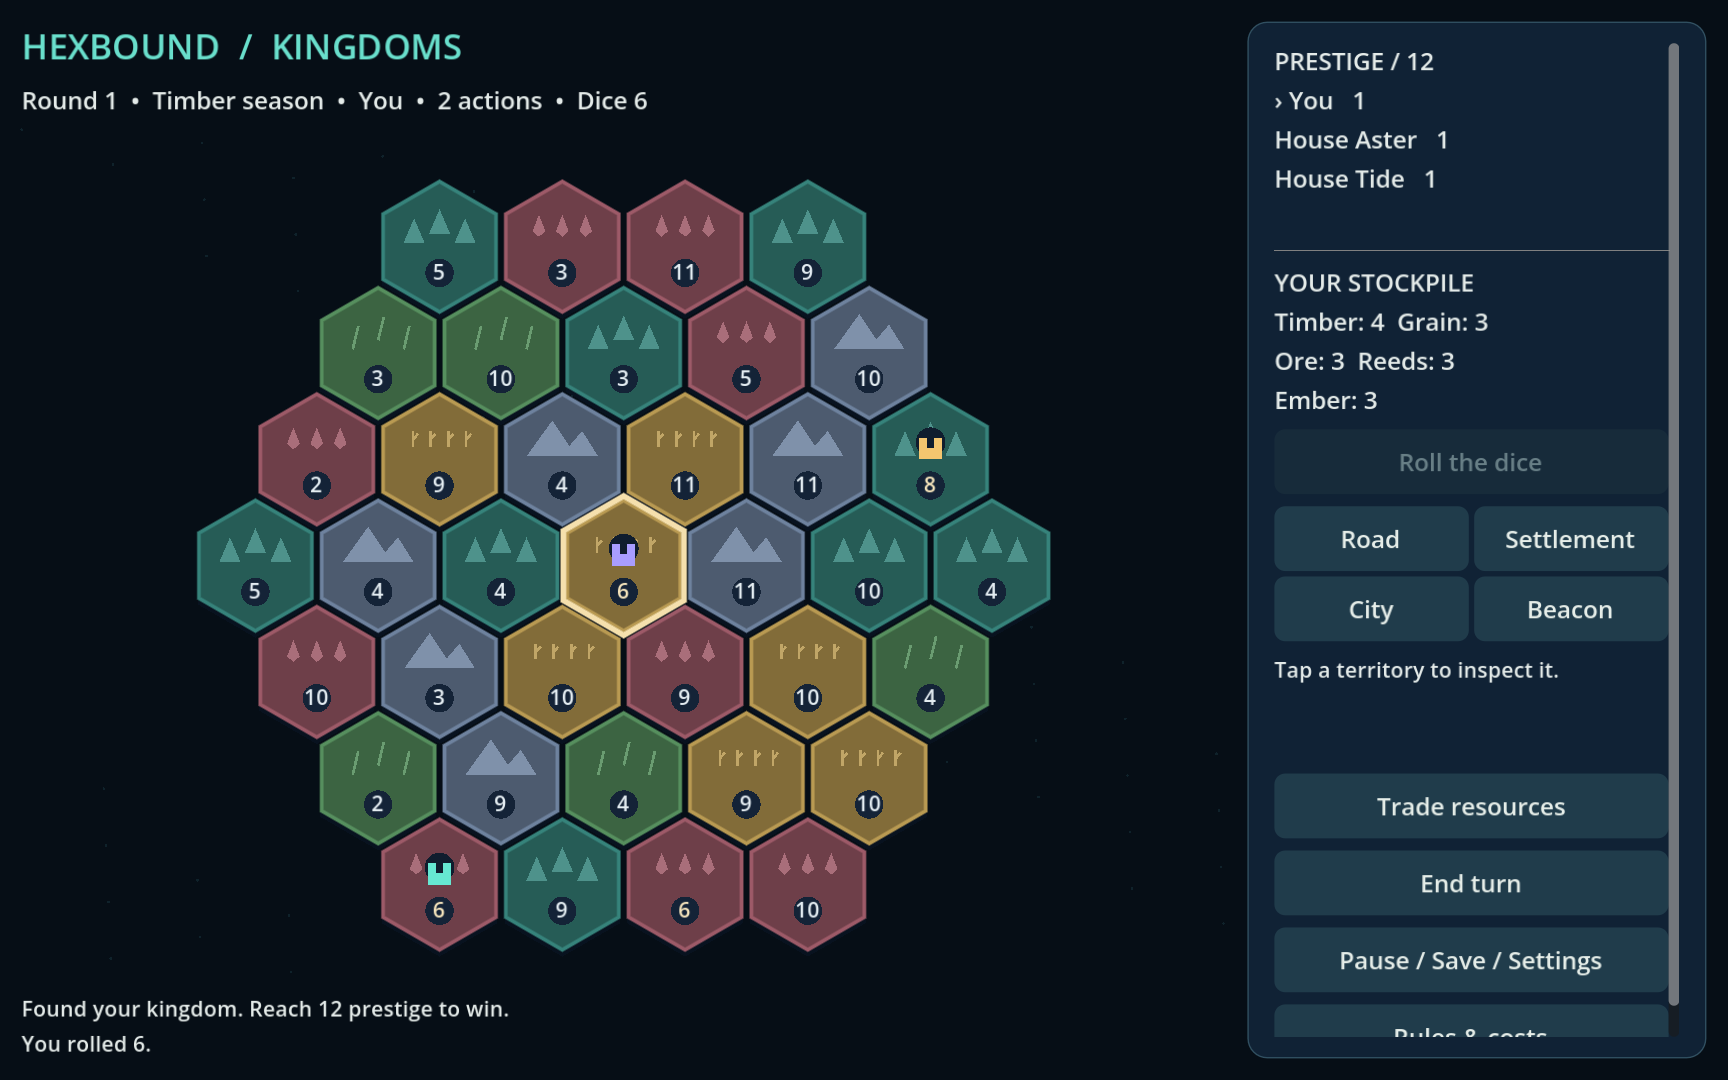
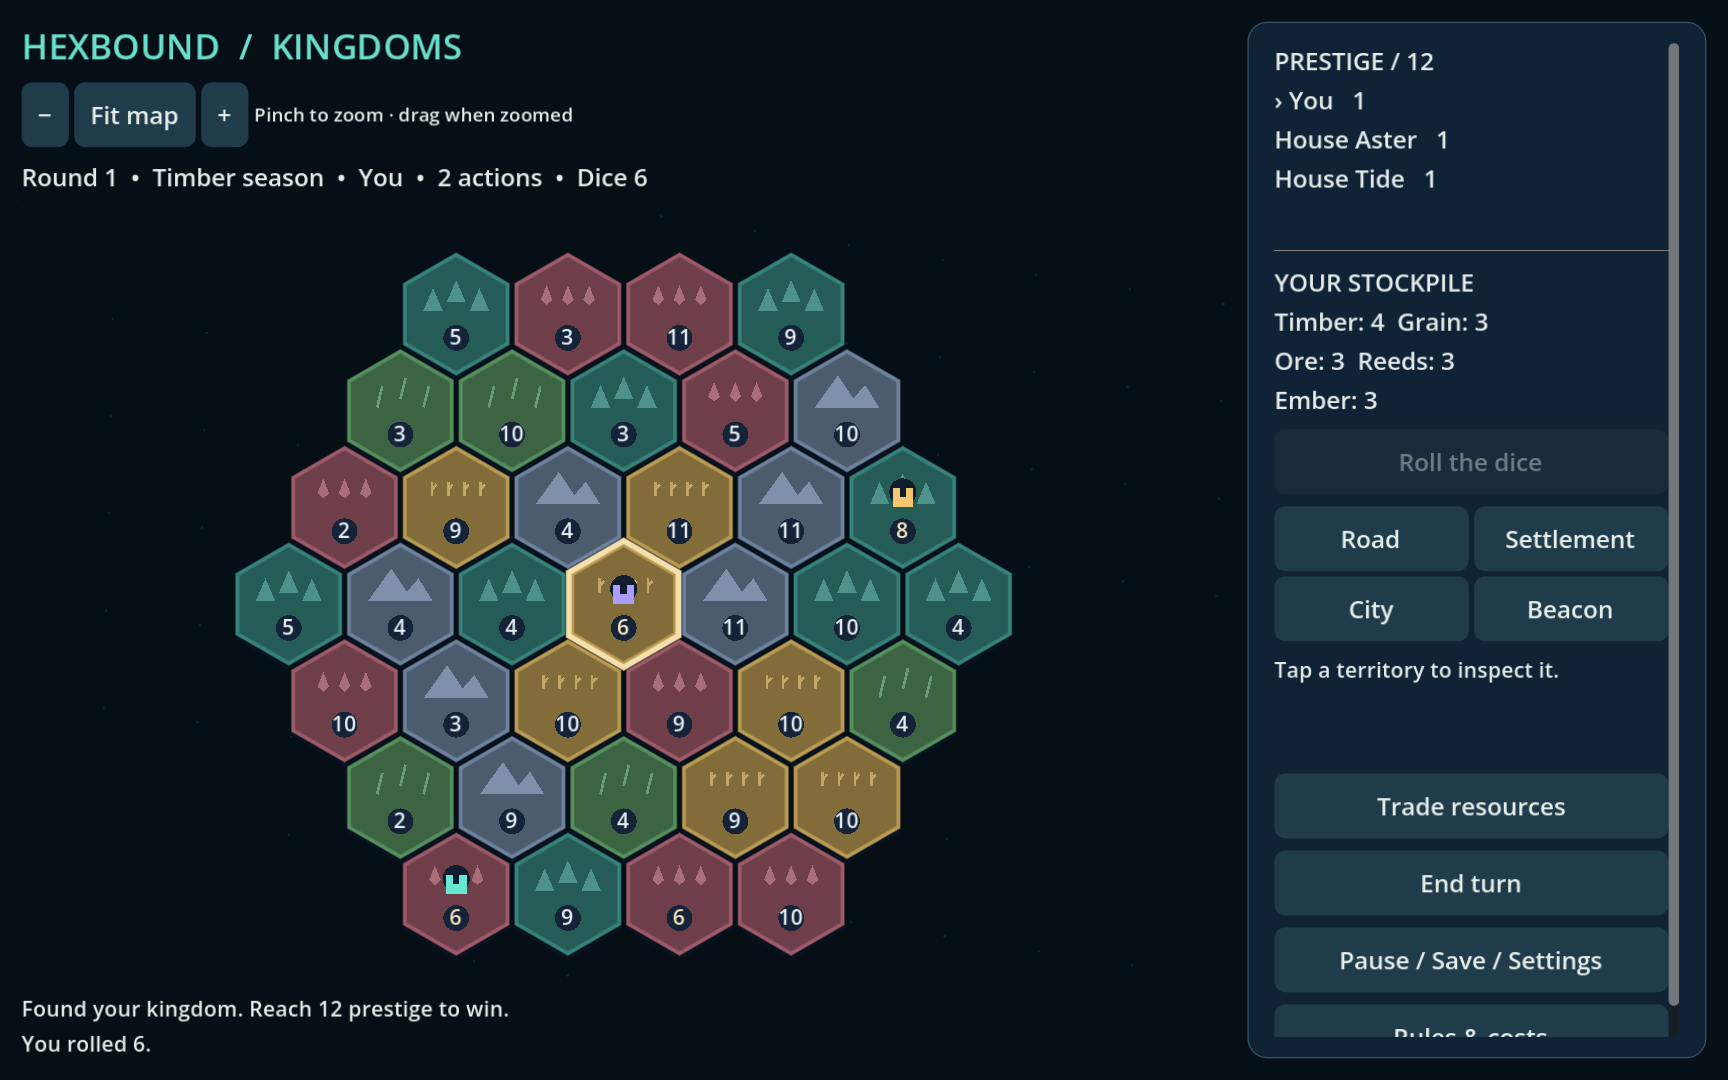
Polish touchscreen map navigation and record verified unsigned Android build

Changed region(s): [[0.0, 0.0611, 0.625, 0.8861]]

diff --git a/google-play-release/validation.md b/google-play-release/validation.md
@@ -7,7 +7,7 @@ Executed in the Codex cloud machine using Godot 4.6.3. Outputs are not claims ab
 | Godot headless editor import | Passed; error-scanning runner, no script/import errors |
 | Gameplay suite | 77,795 assertions passed, 0 failed |
 | Complete AI simulations | 45/45 matches reached a winner; all difficulties and 2–4 kingdoms |
-| Interactive UI suite | 30 checks passed, 0 failed; tutorial controls, hit testing, trade, saves, AI cancellation, four viewport layouts |
+| Interactive UI suite | 37 checks passed, 0 failed; tutorial controls, hit testing, trade, saves, AI cancellation, four viewport layouts and zoom/pinch/recenter controls |
 | Running game startup smoke | Passed |
 | Linux x86_64 release export | Generated `build/hexbound-linux.x86_64` and startup smoke passed |
 | Actual rendered screenshots | Captured via Xvfb + OpenGL/Mesa llvmpipe; original 1280×800 and phone-aspect 1920×1080 captures |
@@ -18,7 +18,8 @@ Executed in the Codex cloud machine using Godot 4.6.3. Outputs are not claims ab
 | Poing native ads/UMP package | Pinned SHA-256 verified; consent singleton classes confirmed in AAR; no device/runtime ad test |
 | Full JDK | `javac 21.0.12.1` verified after local package extraction |
 | Android SDK installation | Prerequisites skipped because license was not accepted; no terms accepted on user's behalf |
-| Android build command | Failed prerequisite check: API 36 `android.jar` absent; no AAB generated locally |
-| Signed bundle / bundletool / merged manifest / device tests | Unrun, pending licensed SDK/signing/device access |
+| Android build command, cloud | Failed prerequisite check: API 36 `android.jar` absent; no AAB generated locally |
+| GitHub Actions run 38181967539, before latest touch update | Validation and Android jobs passed; unsigned AAB generated; bundletool validation, SDK/permissions/backup/debuggable manifest audit and native alignment check passed |
+| Signed bundle / native ad runtime / device tests | Unrun, pending signing credentials/native-device access |
 
 The UI suite initially exposed a bank-selector bug and portrait test setup issue; both were corrected and the suite rerun successfully. Earlier default-home cache failures were corrected with writable XDG directories. No failure has been relabeled as a pass. Advertising/purchase/publication readiness is not claimed.

diff --git a/README.md b/README.md
@@ -4,7 +4,7 @@ Original offline hex-territory strategy game, Godot **4.6.3**, GDScript, Android
 
 ## Play
 
-Open `project.godot` in Godot 4.6.3 and run. Choose 2–4 kingdoms (one human with 1–3 offline AI), difficulty, or interactive tutorial. Roll, resolve a storm on seven, spend two actions, then end the turn. Click/tap territories to inspect or build. Road construction requires two adjacent selections. Green outlines identify legal city/settlement/beacon targets. Save automatically after actions and AI turns; resume from main menu. Settings persist locally. No accounts or multiplayer networking.
+Open `project.godot` in Godot 4.6.3 and run. Choose 2–4 kingdoms (one human with 1–3 offline AI), difficulty, or interactive tutorial. Roll, resolve a storm on seven, spend two actions, then end the turn. Click/tap territories to inspect or build. Pinch/wheel or use +/- to zoom; drag while zoomed; Fit map recenters. Android buttons are enlarged. Road construction requires two adjacent selections. Green outlines identify legal city/settlement/beacon targets. Save automatically after actions and AI turns; resume from main menu. Settings persist locally. No accounts or multiplayer networking.
 
 **Original rules:** Roads join hex centers; settlement sites occupy territories, with an empty neighboring ring. Five rotating seasons increase one biome's production and guarantee supplies. Beacons grant prestige and reward biome diversity. Storms deny production and grant salvaged Ember without theft or discards. Reach 12 prestige. Full charter and costs are accessible in-game. The familiar genre elements (hexes, dice, roads, trade) are not a copied board layout or rulebook. Obtain name/trademark and overall presentation review before commercial publication.
 

diff --git a/google-play-release/README.md b/google-play-release/README.md
@@ -1,6 +1,6 @@
 # Release package — development build 0.1.0
 
-**Not ready for Google Play submission.** Gameplay and desktop validation are available; Android export is blocked locally by unaccepted SDK licenses. No AAB has been generated in this cloud instance. Native ads, signing, merged Android manifest, install/resume behavior, real touchscreen ergonomics, and physical-device performance have not been validated. This README must be updated after a successful CI/device run; a configured workflow is not evidence of a successful workflow run.
+**Not ready for Google Play submission.** Gameplay and desktop validation are available; Android export is blocked locally by unaccepted SDK licenses; GitHub’s preprovisioned SDK successfully built the unsigned bundle without accepting new terms. An unsigned AAB has been generated and validated in GitHub Actions run 38181967539 (artifact android-bundle-5, before the latest touch-control update); a rebuild of the updated game is pending. No AAB was generated locally in this cloud instance. Native ads, signing, Android install/resume behavior, real touchscreen ergonomics, and physical-device performance have not been validated. The offline bundle passed bundletool, merged manifest and native alignment audits in Actions. This README must be updated after a successful CI/device run; a configured workflow is not evidence of a successful workflow run.
 
 Prepared files:
 - `app-icon-512.png`: original 512 × 512 opaque Play icon.

diff --git a/google-play-release/testing-checklist.md b/google-play-release/testing-checklist.md
@@ -13,9 +13,9 @@ Automated evidence is in `validation.md`; do not mark unrun items as passed.
 - [x] Layout assertions at 1280×720, 1920×1080, 2400×1080 and 800×1280.
 - [x] Actual desktop OpenGL/Mesa gameplay screenshots; desktop export startup.
 - [x] No-native-ad fail-closed desktop behavior.
-- [ ] Android AAB generation and bundletool validation.
+- [x] Android AAB generation and bundletool validation in GitHub Actions (updated touch build pending).
 - [ ] Release signature verification on actual signed AAB.
-- [ ] Merged manifest/permission/native dependency audit.
+- [x] Offline merged manifest/permission audit in Actions; native-ad dependency audit pending.
 - [ ] Real phones: API 26 baseline, API 36 current, narrow/ultrawide/tablet, cutouts/system bars, orientation changes and 16-KiB device.
 - [ ] Touch accuracy/readability, screen-reader/accessibility/contrast and device performance/battery/heat.
 - [ ] Suspend, force stop, restart, storage full, upgrade save compatibility, uninstall deletion, backup behavior.

diff --git a/google-play-release/release-notes.md b/google-play-release/release-notes.md
@@ -4,6 +4,6 @@
 - Roads, settlements, cities, resource trade and storm blocking.
 - Original seasonal supply and beacon-diversity prestige rules.
 - Learn-by-playing tutorial, local automatic saves and resume.
-- Sound effects, reduced-motion settings and adaptive layouts.
+- Sound effects, reduced-motion settings, adaptive layouts and pinch/pan map controls.
 
 Android/device validation and native advertising QA are pending. This is not yet a public Google Play release. Purchases and online multiplayer are not included.
